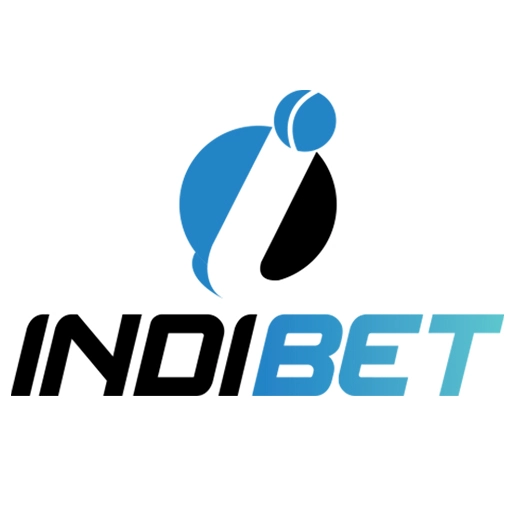
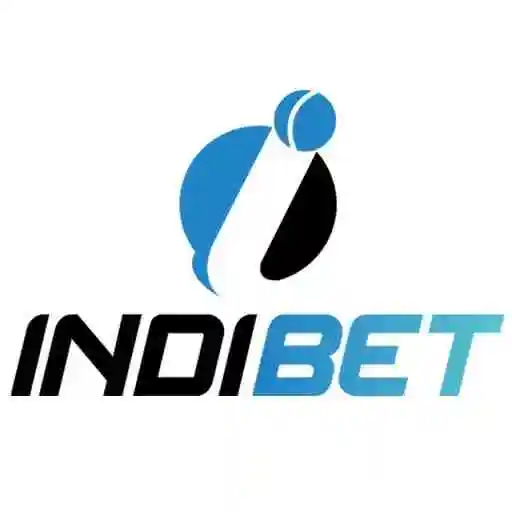
feat: image optimize

diff --git a/Components/Install/Banner.tsx b/Components/Install/Banner.tsx
@@ -40,7 +40,7 @@ export default function Banner({
       <div className=" inner">
         <div className="play-block !w-screen">
           <Image
-            src="/assets/pwa/banner.jpg"
+            src="/assets/pwa/banner.webp"
             alt="banner"
             fill
             priority
